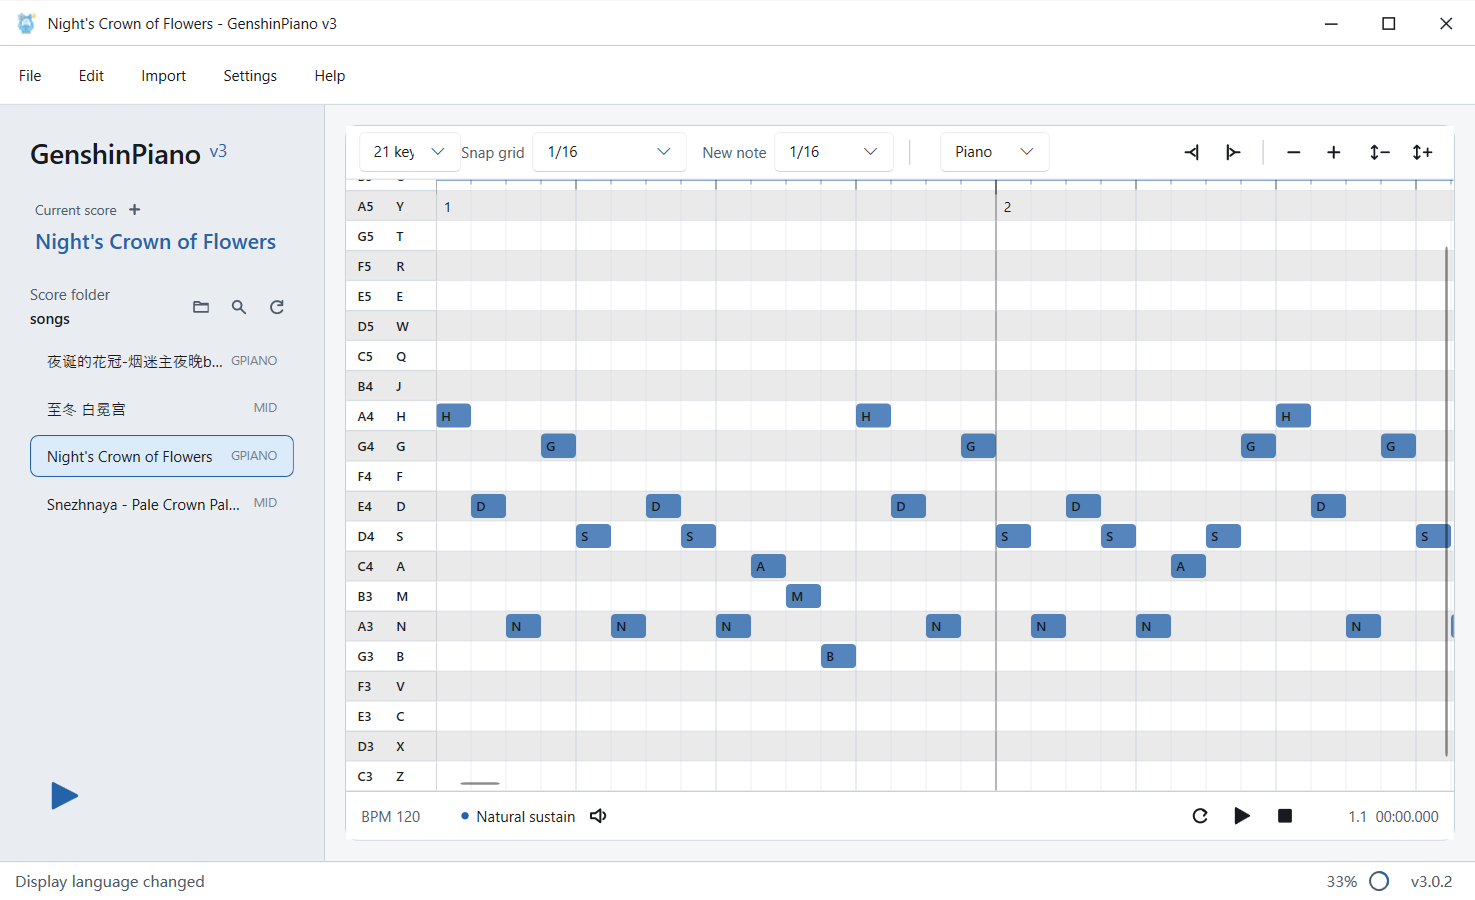
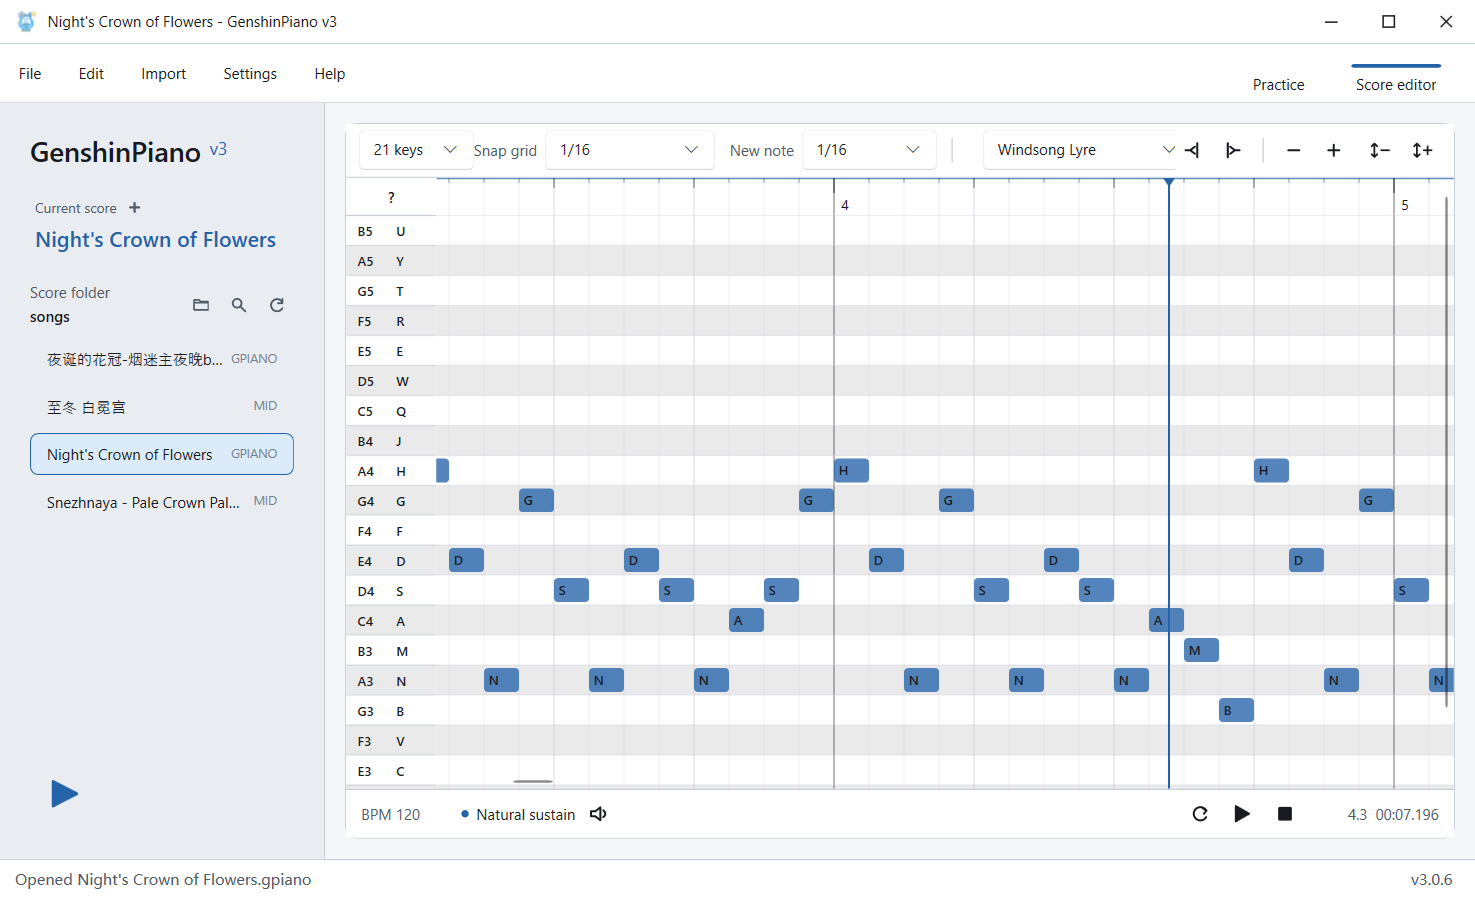
feat: add localized application screenshot showcase

diff --git a/src/styles/global.css b/src/styles/global.css
@@ -62,8 +62,9 @@ html[lang="en"] .hero-title { font-weight:650;line-height:1.1;letter-spacing:-.0
 @media(max-width:560px){.product-showcase{padding-bottom:60px}.product-shot{border-radius:16px}.product-shot figcaption{align-items:flex-start;flex-direction:column;gap:7px}.product-shot img{min-height:230px;object-fit:cover;object-position:center}}
 
 /* In-component screenshot carousel */
-.product-shot-viewport { overflow:hidden;touch-action:pan-y }.product-shot-track { display:flex;width:200%;transform:translateX(0);transition:transform .45s cubic-bezier(.22,.8,.24,1);will-change:transform }.product-slide { flex:0 0 50%;min-width:0 }.product-slide img { user-select:none;-webkit-user-drag:none }.shot-switch { display:inline-flex;gap:4px;padding:4px;border:1px solid var(--line);border-radius:11px;background:#f3f7f5 }.shot-switch button { padding:7px 12px;border:0;border-radius:8px;color:var(--muted);background:transparent;font:inherit;font-size:.76rem;font-weight:700;cursor:pointer }.shot-switch button.active { color:#fff;background:var(--aqua) }.product-shot figcaption a { display:none }
-@media(prefers-reduced-motion:reduce){.product-shot-track{transition:none}}
+.product-shot-viewport { overflow:hidden;touch-action:pan-y }.product-shot-track { display:flex;width:calc(var(--slide-count)*100%);transform:translateX(0);transition:transform .45s cubic-bezier(.22,.8,.24,1);will-change:transform }.product-slide { flex:0 0 calc(100%/var(--slide-count));min-width:0 }.product-slide img { user-select:none;-webkit-user-drag:none }.shot-switch { position:relative;display:inline-flex;gap:4px;padding:4px;border:1px solid var(--line);border-radius:11px;background:#f3f7f5 }.shot-switch-indicator { position:absolute;z-index:0;top:4px;bottom:4px;left:0;border-radius:8px;background:var(--aqua);pointer-events:none;will-change:width,transform }.shot-switch-indicator.ready { transition:width .38s cubic-bezier(.22,.8,.24,1),transform .38s cubic-bezier(.22,.8,.24,1) }.shot-switch button { position:relative;z-index:1;padding:7px 12px;border:0;border-radius:8px;color:var(--muted);background:transparent;font:inherit;font-size:.76rem;font-weight:700;cursor:pointer;transition:color .22s ease,transform .22s ease }.shot-switch button:hover { color:var(--ink) }.shot-switch button.active { color:#fff;transform:translateY(-1px) }.product-shot figcaption a { display:none }
+@media(max-width:760px){.shot-switch{width:100%;overflow-x:auto;scrollbar-width:none}.shot-switch::-webkit-scrollbar{display:none}.shot-switch button{flex:0 0 auto}.product-shot figcaption{align-items:stretch}}
+@media(prefers-reduced-motion:reduce){.product-shot-track,.shot-switch-indicator.ready,.shot-switch button{transition:none}}
 
 @media(max-width:560px){.product-slide img{min-height:0;height:auto;object-fit:contain}}
 
